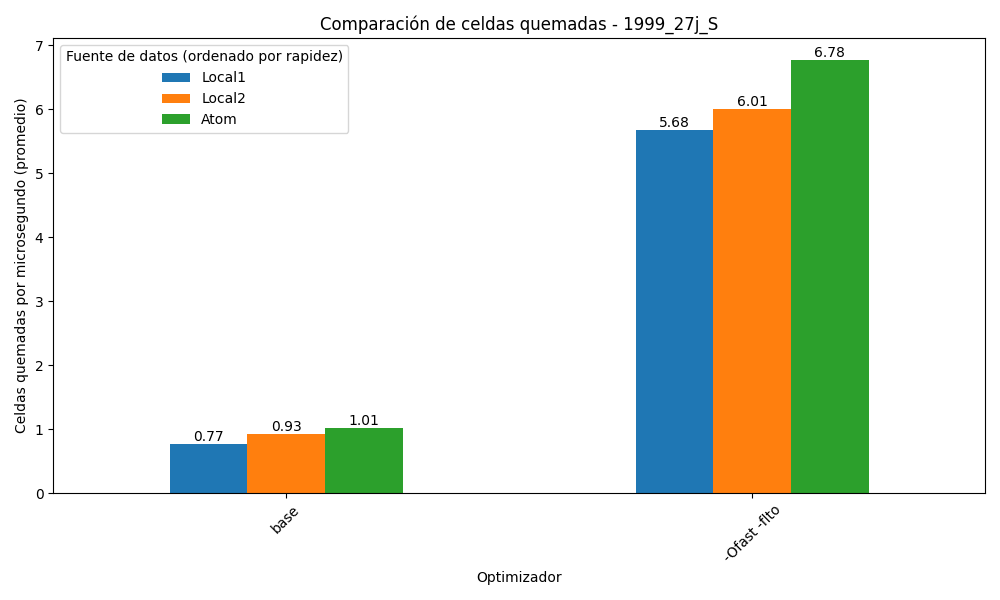
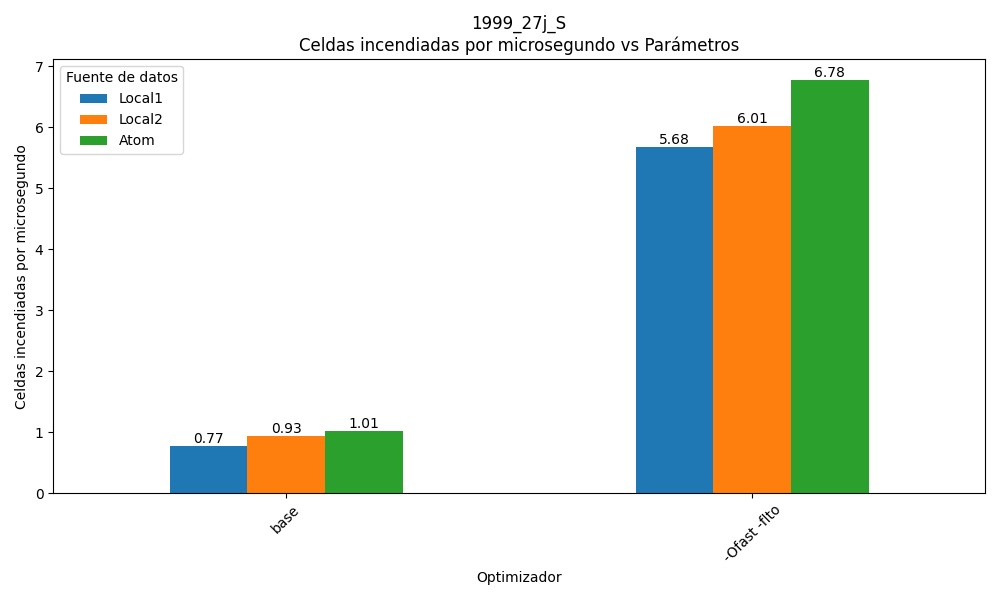
renewed graphs

diff --git a/graficador3.py b/graficador3.py
@@ -3,14 +3,13 @@ import matplotlib.pyplot as plt
 import os
 
 # Crear carpeta si no existe
-output_dir = "./comp3"
+output_dir = "./comp3Atom"
 os.makedirs(output_dir, exist_ok=True)
 
 # Lista de archivos con sus etiquetas
 archivos = {
-    "Atom": "resultadosComp3Atom.csv",
-    "Local1": "resultadosComp3Local1.csv",
-    "Local2": "resultadosComp3Local2.csv"
+    "Reduced": "resultadosComp3AtomReduced.csv",
+    "Original": "resultadosComp3AtomOriginal.csv"
 }
 
 # Diccionario para almacenar los datos
@@ -50,9 +49,9 @@ for landscape in landscapes:
     # Graficar
     ax = pivot.plot(kind="bar", figsize=(10, 6))
     ax.set_xlabel("Optimizador")
-    ax.set_ylabel("Celdas quemadas por microsegundo (promedio)")
-    ax.set_title(f"Comparación de celdas quemadas - {landscape}")
-    ax.legend(title="Fuente de datos (ordenado por rapidez)", loc="upper left")
+    ax.set_ylabel("Celdas incendiadas por microsegundo")
+    ax.set_title(f"{landscape}\nCeldas incendiadas por microsegundo vs Parámetros")
+    ax.legend(title="Fuente de datos", loc="upper left")
     
     # Agregar etiquetas de valores en las barras
     for container in ax.containers:
@@ -64,6 +63,4 @@ for landscape in landscapes:
     # Guardar la imagen
     filename = os.path.join(output_dir, f"{landscape}.png")
     plt.savefig(filename)
-    plt.close()  # Cerrar la figura para liberar memoria
-
-    print(f"Gráfico guardado como {filename}")
+    plt.close()

diff --git a/graficador2.py b/graficador2.py
@@ -27,8 +27,8 @@ def plot_comparacion_celdas(csv_path):
     # Crear el gráfico de barras agrupadas
     ax = pivot.plot(kind='bar', figsize=(10, 6))
     ax.set_xlabel("Opción de optimización")
-    ax.set_ylabel("Celdas quemadas por microsegundo")
-    ax.set_title("Comparación de celdas quemadas por microsegundo usando g++ -Ofast")
+    ax.set_ylabel("Celdas incendiadas por microsegundo")
+    ax.set_title("Celdas incendiadas por microsegundo vs Parámetros")
     ax.legend(title="Landscape", loc="lower left")
     
     # Modificar las etiquetas del eje x para que no muestren "-Ofast"
@@ -42,7 +42,7 @@ def plot_comparacion_celdas(csv_path):
         ax.bar_label(container, fmt="%.2f")
     
     plt.tight_layout()
-    plt.savefig("grafica2.png")
+    plt.savefig("comp2.png")
 
 # Ejemplo de uso:
 plot_comparacion_celdas("resultadosComp2.csv")

diff --git a/graficador.py b/graficador.py
@@ -15,10 +15,10 @@ for landscape in landscapes:
     pivot = df_l.pivot(index='Optimizador', columns='Compilador', values='Celdas quemadas por segundo')
 
     ax = pivot.plot(kind='bar', figsize=(8, 6), rot=0)
-    ax.set_title(f'Comparación de celdas quemadas por segundo\nLandscape: {landscape}')
+    ax.set_title(f'{name}\nCeldas incendiadas por microsegundo vs Compilador y Optimizador')
     ax.set_xlabel('Optimizador')
-    ax.set_ylabel('Celdas quemadas por segundo')
+    ax.set_ylabel('Celdas incendiadas por microsegundo')
     ax.legend(title='Compilador')
 
     plt.tight_layout()
-    plt.savefig(name + ".png")
+    plt.savefig("./comp1/" + name + ".png")
